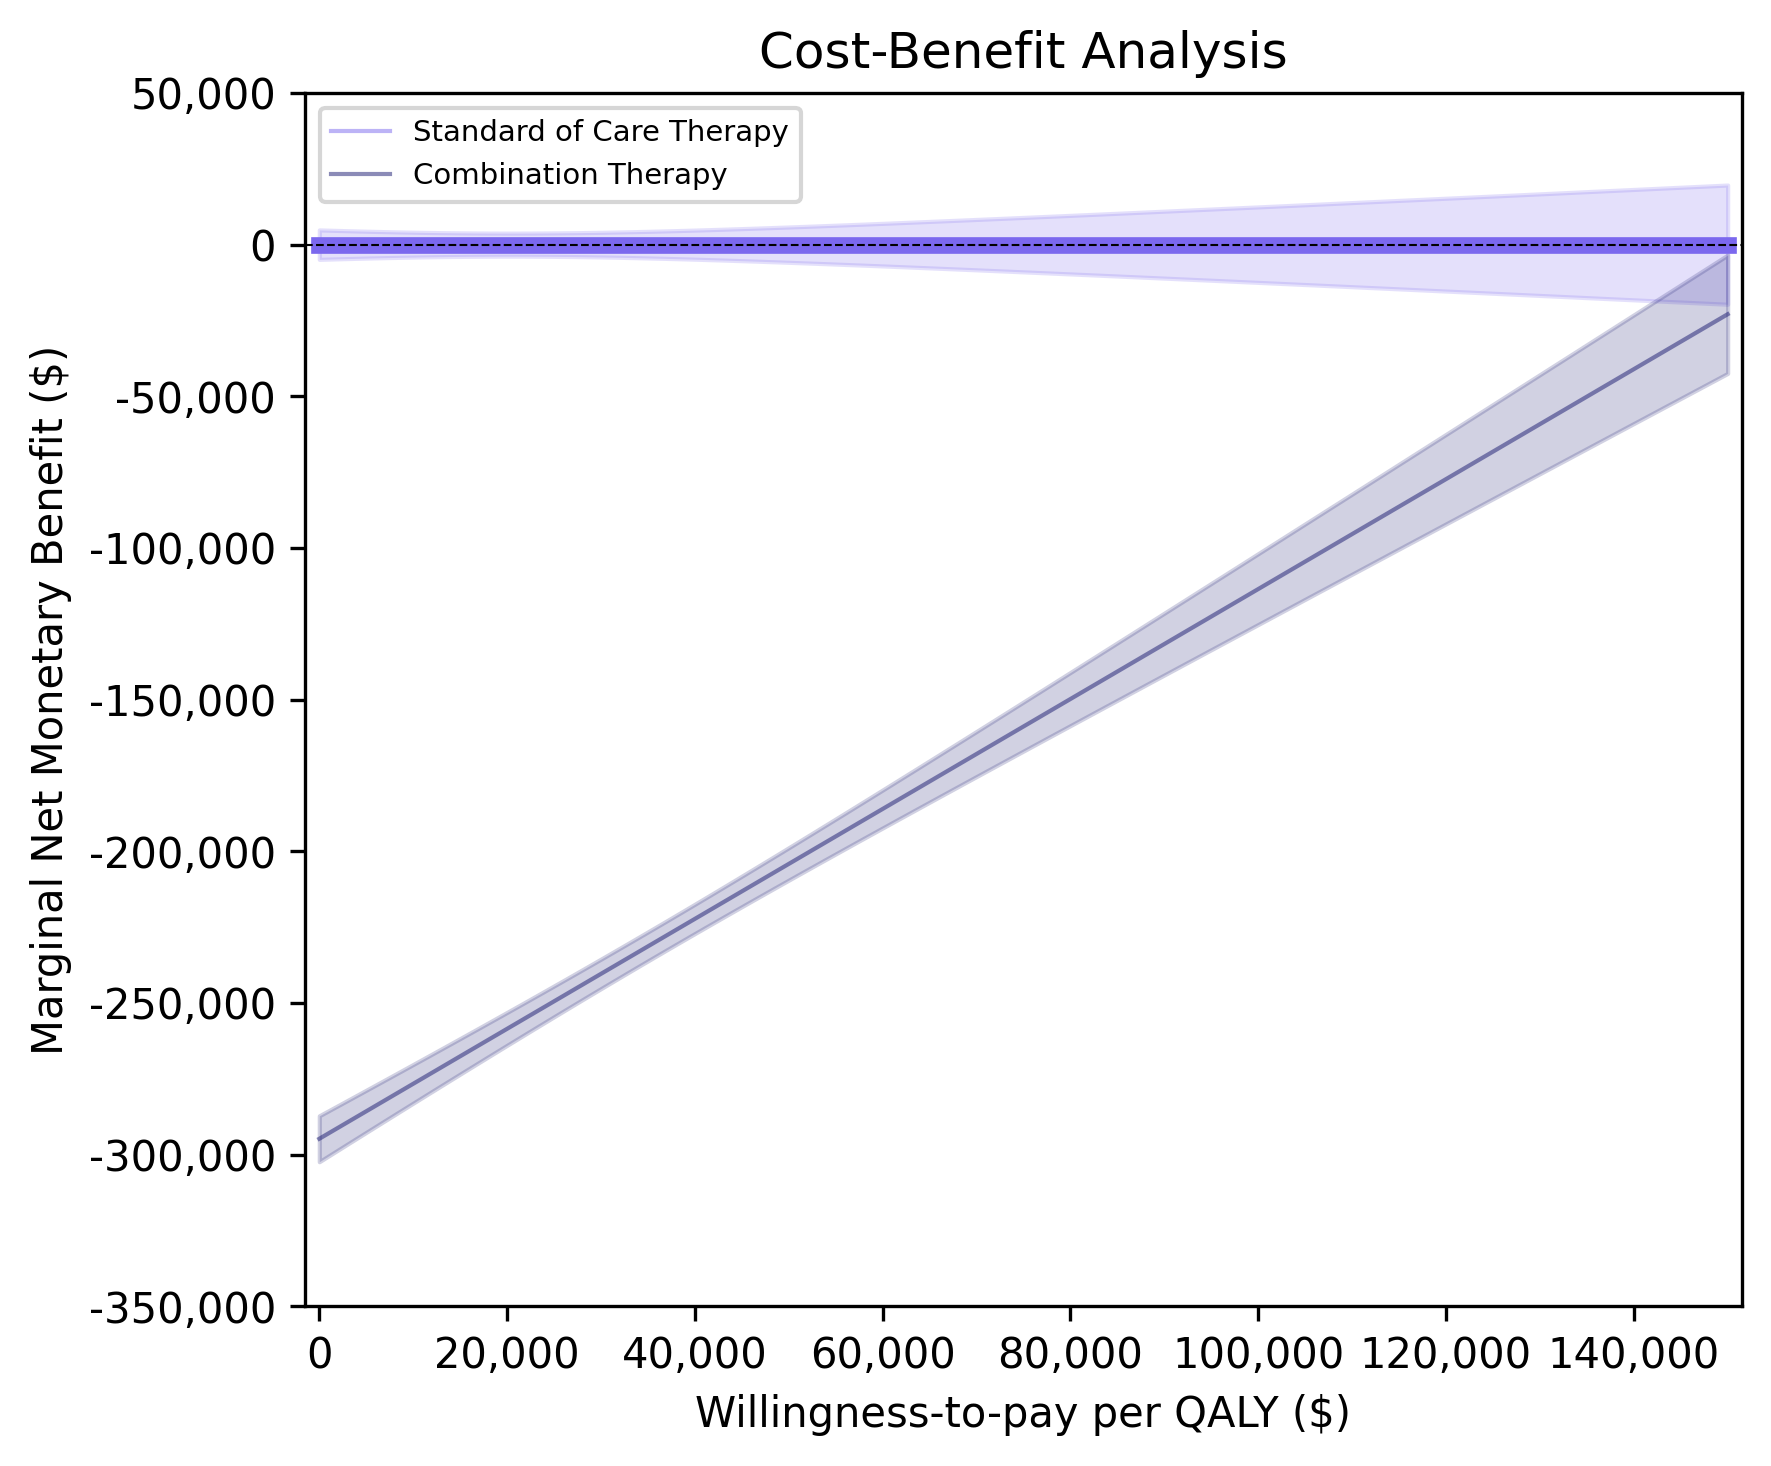
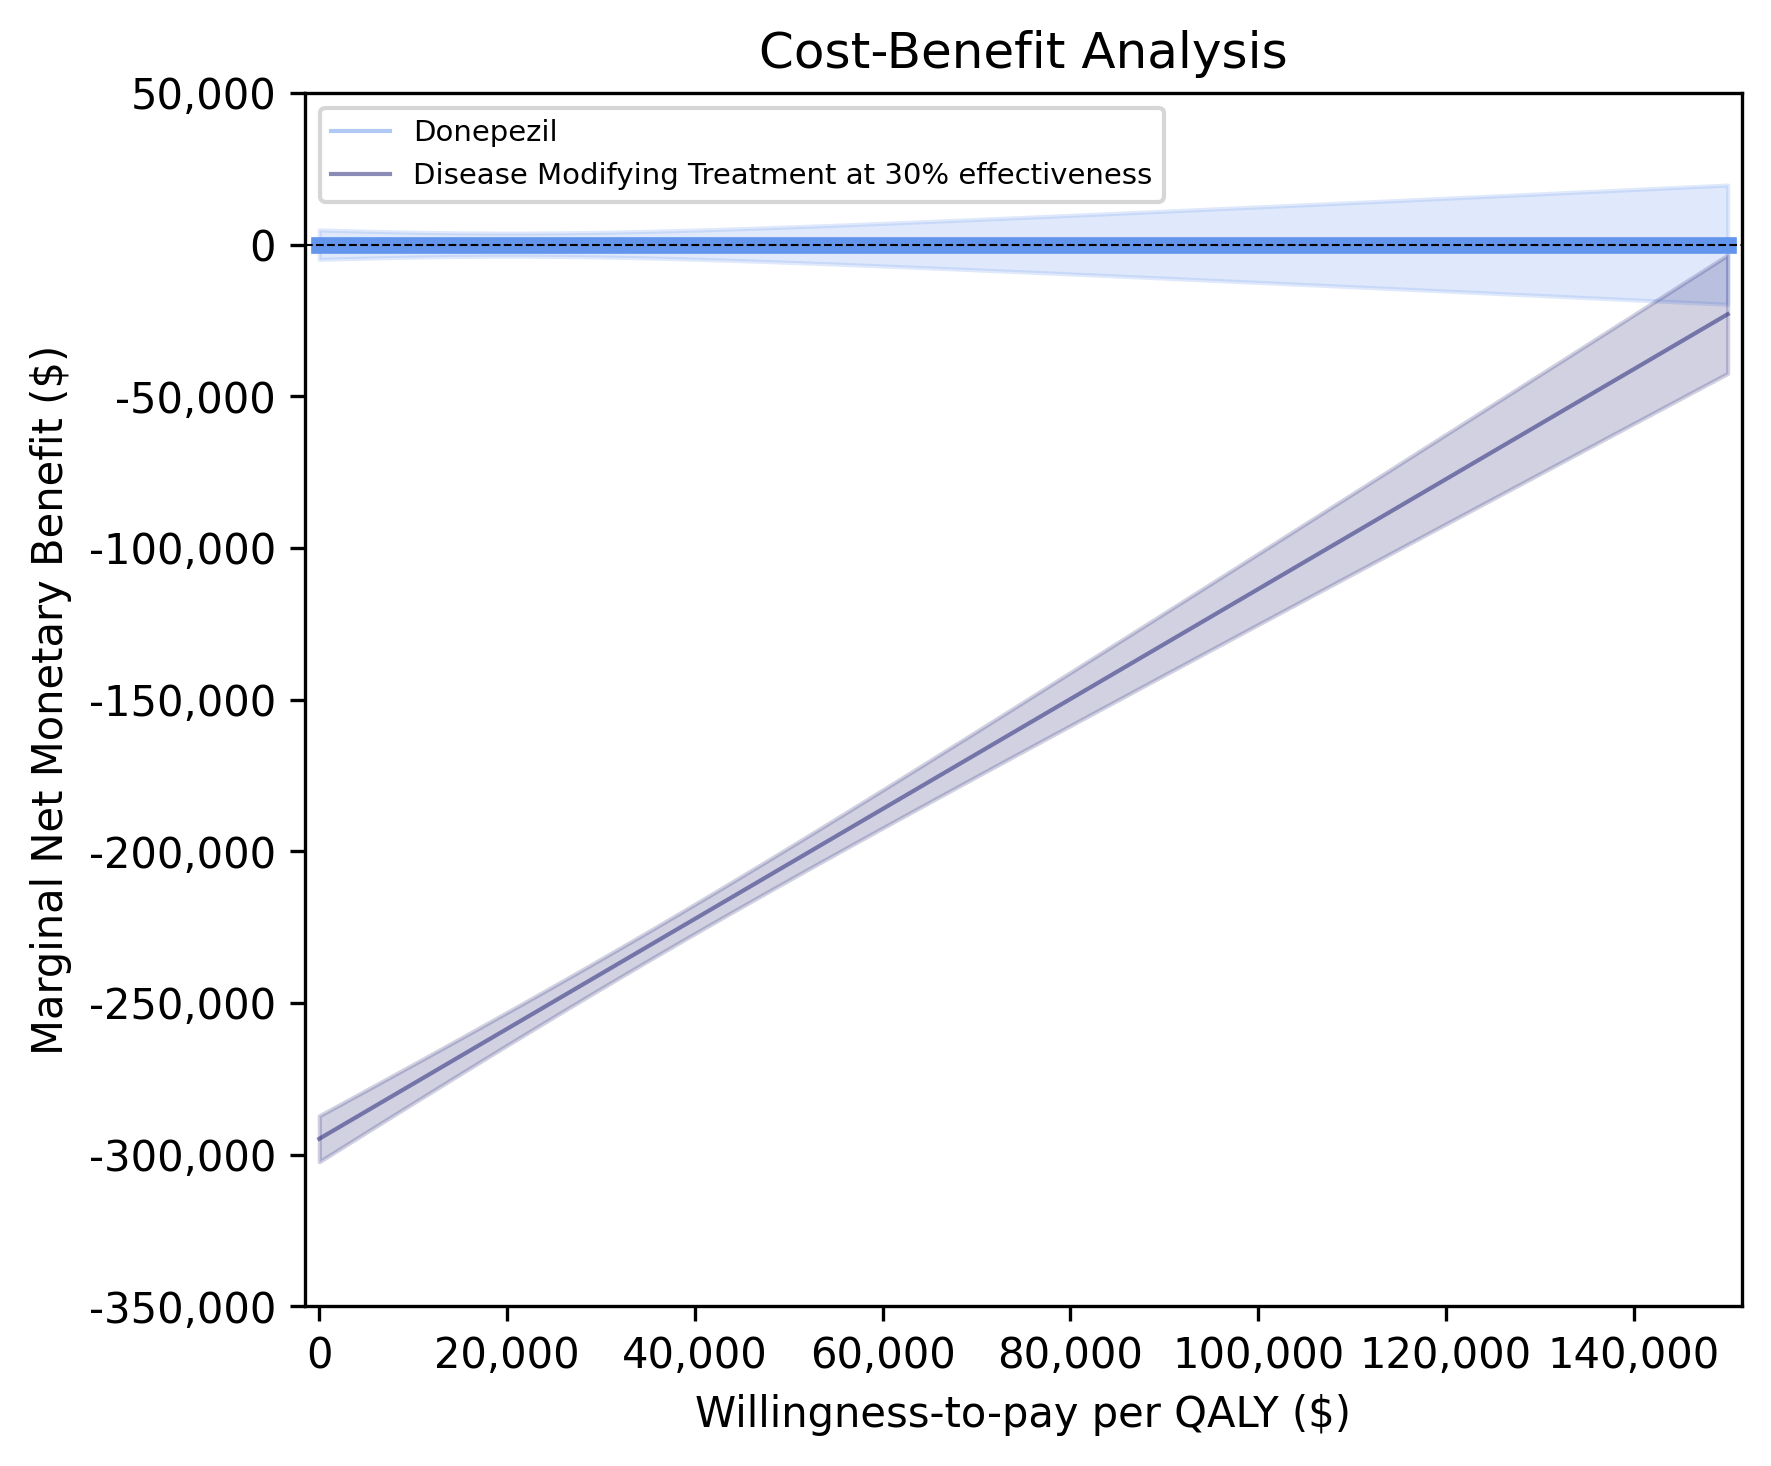
color and names changed

Changed region(s): [[0.1553, 0.0614, 0.9938, 0.1842]]

diff --git a/Support.py b/Support.py
@@ -59,7 +59,7 @@ def plot_survival_curves_and_histograms(sim_outcomes_soc, sim_outcomes_dmt):
         y_label='Number of alive patients',
         figure_size=(6,5),
         legends=['Donepezil', 'Disease Modifying Treatment at 30% effectiveness'],
-        color_codes=['mediumslateblue', 'midnightblue'],
+        color_codes=['cornflowerblue', 'midnightblue'],
         file_name='figs/compare/survival_curves.png'
     )
 
@@ -76,7 +76,7 @@ def plot_survival_curves_and_histograms(sim_outcomes_soc, sim_outcomes_dmt):
         y_label='Counts',
         bin_width=1,
         legends=['Donepezil', 'Disease Modifying Treatment at 30% effectiveness'],
-        color_codes=['mediumslateblue', 'midnightblue'],
+        color_codes=['cornflowerblue', 'midnightblue'],
         transparency=0.5,
         file_name='figs/compare/survival_times.png'
     )
@@ -94,7 +94,7 @@ def plot_survival_curves_and_histograms(sim_outcomes_soc, sim_outcomes_dmt):
         y_label='Counts',
         bin_width=1,
         legends=['Donepezil', 'Disease Modifying Treatment at 30% effectiveness'],
-        color_codes=['mediumslateblue', 'midnightblue'],
+        color_codes=['cornflowerblue', 'midnightblue'],
         transparency=0.5,
         file_name='figs/compare/times_severe_state.png'
     )
@@ -119,7 +119,7 @@ def plot_survival_curves_and_histograms_multi(multi_cohort_outcomes_soc, multi_c
         y_label='Number of Patients Alive',
         legends=['Donepezil', 'Disease Modifying Treatment at 30% effectiveness'],
         transparency=0.4,
-        color_codes=['mediumslateblue', 'midnightblue'],
+        color_codes=['cornflowerblue', 'midnightblue'],
         figure_size=(6, 5),
         file_name='figs/compare/multicohort/survival_curves_multicohort.png'
     )
@@ -138,7 +138,7 @@ def plot_survival_curves_and_histograms_multi(multi_cohort_outcomes_soc, multi_c
         bin_width=0.1,
         x_range=[5, 15],
         legends=['Donepezil', 'Disease Modifying Treatment at 30% effectiveness'],
-        color_codes=['mediumslateblue', 'midnightblue'],
+        color_codes=['cornflowerblue', 'midnightblue'],
         transparency=0.5,
         figure_size=(6, 5),
         file_name='figs/compare/multicohort/survival_times_multicohort.png'
@@ -158,7 +158,7 @@ def plot_survival_curves_and_histograms_multi(multi_cohort_outcomes_soc, multi_c
         bin_width=0.1,
         x_range=[5, 15],
         legends=['Donepezil', 'Disease Modifying Treatment at 30% effectiveness'],
-        color_codes=['mediumslateblue', 'midnightblue'],
+        color_codes=['cornflowerblue', 'midnightblue'],
         transparency=0.5,
         figure_size=(6, 5),
         file_name='figs/compare/multicohort/times_multicohort_severe_state.png'
@@ -167,7 +167,7 @@ def plot_survival_curves_and_histograms_multi(multi_cohort_outcomes_soc, multi_c
 
 def print_comparative_outcomes(sim_outcomes_soc, sim_outcomes_dmt):
     """ prints average increase in survival time, discounted cost, and discounted utility
-    under combination therapy compared to mono therapy
+    under dmt compared to donepezil
     :param sim_outcomes_soc: outcomes of a cohort simulated under mono therapy
     :param sim_outcomes_dmt: outcomes of a cohort simulated under combination therapy
     """
@@ -229,13 +229,13 @@ def report_CEA_CBA(sim_outcomes_soc, sim_outcomes_dmt):
 
     # define two strategies
     soc_therapy_strategy = econ.Strategy(
-        name='Standard of Care Therapy',
+        name='Donepezil',
         cost_obs=sim_outcomes_soc.costs,
         effect_obs=sim_outcomes_soc.utilities,
-        color='mediumslateblue'
+        color='cornflowerblue'
     )
     dmt_therapy_strategy = econ.Strategy(
-        name='Combination Therapy',
+        name='Disease Modifying Treatment at 30% effectiveness',
         cost_obs=sim_outcomes_dmt.costs,
         effect_obs=sim_outcomes_dmt.utilities,
         color='midnightblue'

diff --git a/RunMarkovModel_nonDMT.py b/RunMarkovModel_nonDMT.py
@@ -18,7 +18,7 @@ myCohort.simulate(n_time_steps=D.SIM_TIME_STEPS)
 path.plot_sample_path(
     sample_path=myCohort.cohortOutcomes.nLivingPatients,
     title='Survival Curve',
-    color='mediumslateblue',
+    color='cornflowerblue',
     x_label='Simulation Year',
     y_label='Number Alive',
     file_name='figs/soc/survival_curve.png')
@@ -27,7 +27,7 @@ path.plot_sample_path(
 hist.plot_histogram(
     data=myCohort.cohortOutcomes.survivalTimes,
     title='Histogram of Patient Survival Time',
-    color='mediumslateblue',
+    color='cornflowerblue',
     x_label='Survival Time (Year)',
     y_label='Count',
     bin_width=1,
